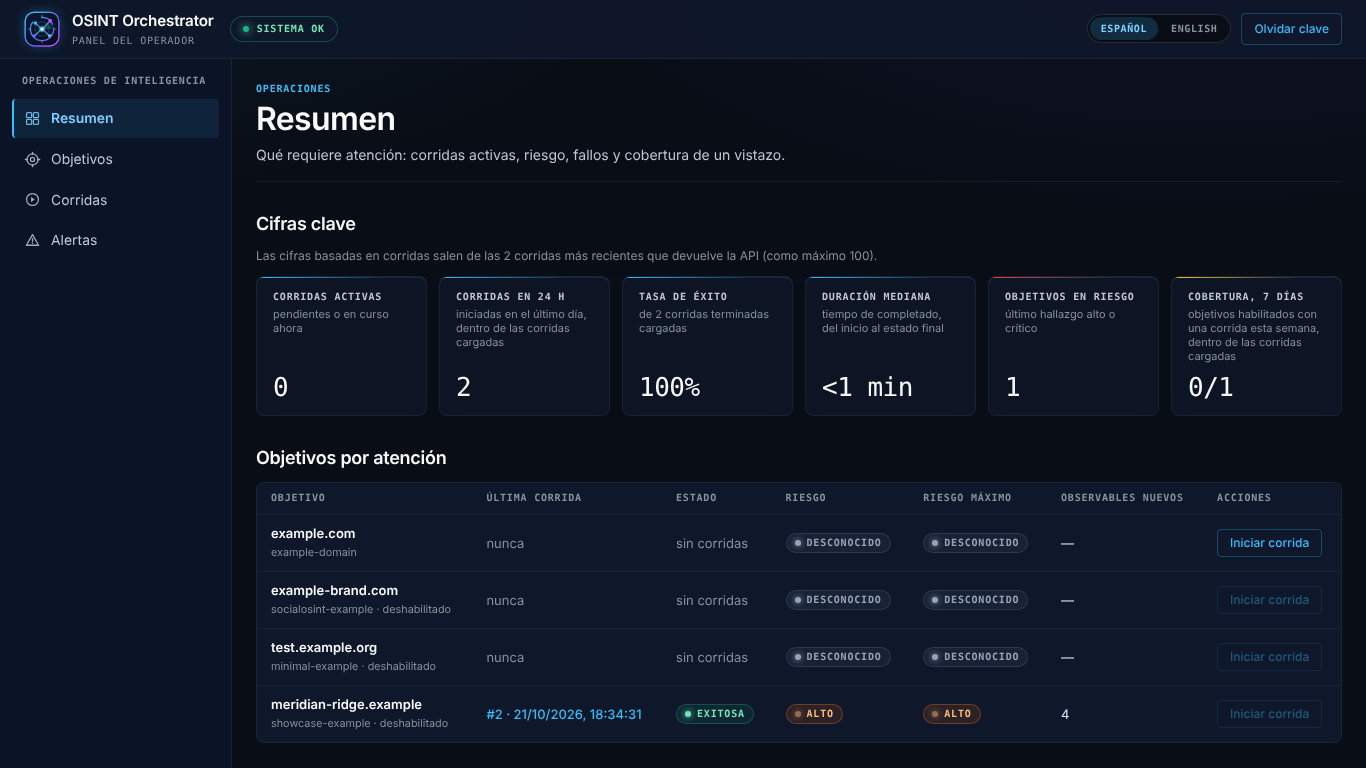
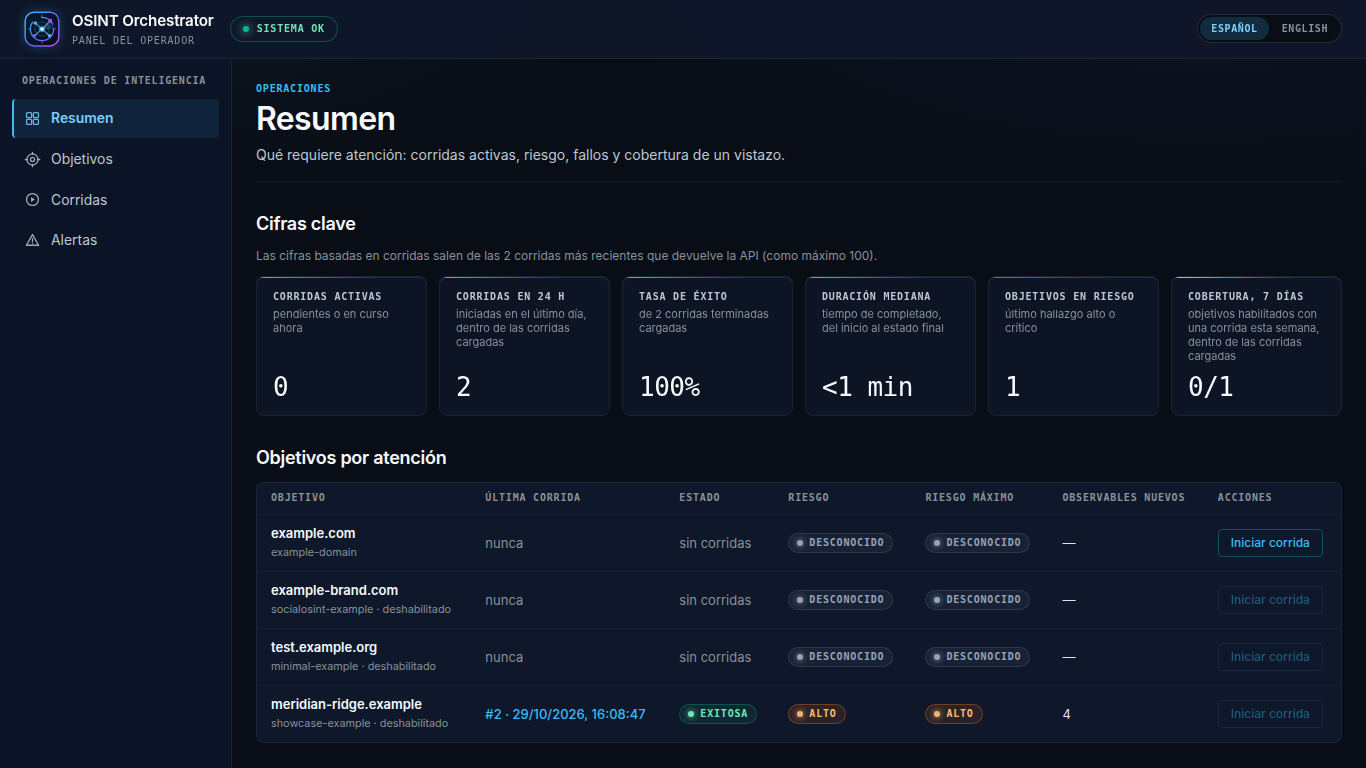
docs: refresh the diagrams, the screenshots and the documentation index (#172)
The pipeline diagram in both READMEs listed four collectors and the code
registers five: SocialOSINT was missing, so the first thing a reader sees
misdescribed the product. Both diagrams now name all five, and a table says
which run for every target and which are opt-in, which is the distinction a
compliance reader actually needs.

The four screenshots dated from before the dossiers and accounts pages
joined the console. They are re-rendered from the showcase replay at the
same 1366 px, one pair per language, and the run workspace one now shows the
qualified-evidence table the caption describes.

docs/README.md is the index the changelog has been announcing since the
documentation restructure in #31 without the file existing; it lists every
guide and ADR. The same changelog entry claimed a docs/business/
presentation that #31 deleted, so that claim goes.

diff --git a/README.es.md b/README.es.md
@@ -22,7 +22,7 @@ archivo se modificó después.
 
 ```mermaid
 flowchart LR
-    T[Objetivo<br/>cron o API] --> C[Recolectores<br/>Tavily · SpiderFoot · OpenOSINT · Amass]
+    T[Objetivo<br/>cron o API] --> C[Recolectores<br/>OpenOSINT · SpiderFoot<br/>Tavily · Amass · SocialOSINT]
     C --> Q[Calificación de evidencia<br/>Nemotron fast]
     Q --> N[STIX 2.1]
     N --> O[(OpenCTI)]
@@ -32,7 +32,9 @@ flowchart LR
 ```
 
 - **Recolectar.** Cada objetivo autorizado se investiga según un cron o a
-  demanda, con búsqueda web (Tavily) y recolectores de infraestructura.
+  demanda. OpenOSINT y SpiderFoot corren para todo objetivo; Tavily, Amass y
+  SocialOSINT se activan por objetivo, así que nada sale de su infraestructura
+  ni llega a un tercero salvo que el bloque de ese objetivo lo pida.
 - **Calificar.** Cada resultado web se clasifica respecto de la entidad:
   categoría (sanciones, litigios, prensa adversa…), relevancia, confianza y una
   justificación de una línea.
@@ -43,6 +45,17 @@ flowchart LR
 - **Sellar.** Los archivos de cada corrida se resumen en un manifiesto firmado
   con HMAC y encadenado a la corrida anterior, de modo que cualquier edición o
   borrado posterior se detecta.
+
+| Colector | Cómo corre | Activo por defecto | Qué aporta |
+| --- | --- | --- | --- |
+| OpenOSINT | búsqueda de pivotes en proceso, con presupuestos duros | todo objetivo | Dominios, URL y entidades alcanzadas desde la semilla |
+| SpiderFoot | en el stack base, por HTTP | todo objetivo | Hosts, certificados y exposiciones de sus módulos |
+| Tavily | API de búsqueda alojada, requiere `TAVILY_API_KEY` | opt-in por objetivo | Páginas de terceros como observables `url`, cada una calificada |
+| Amass | CLI sidecar, `--profile amass` | opt-in por objetivo | Subdominios y sus registros DNS |
+| SocialOSINT | REST sidecar, `--profile socialosint` | opt-in por objetivo | Un `user-account` por handle, más una nota de análisis sin verificar |
+
+Las claves por colector (`collectors.<nombre>.*`) están en
+[configuración](docs/configuration.md) (en inglés).
 
 Detalle: [arquitectura](docs/architecture.md) (en inglés).
 
@@ -187,8 +200,8 @@ activas, hallazgos, evidencia con búsqueda y filtros, y un botón para iniciar
 corridas; pide `ORCHESTRATOR_API_KEY` al abrirlo. Código en
 [`ui/`](ui/README.md) (en inglés); las imágenes lo construyen solas.
 
-Las dos capturas son la consola tras la corrida de muestra del nivel 1: la
-entidad ficticia, dos corridas, ninguna clave de API.
+Las dos capturas son la consola tras la repetición de la muestra (paso 1 del
+inicio rápido): la entidad ficticia, dos corridas, sin clave de API.
 
 ![Resumen: cifras clave y objetivos ordenados por atención; el objetivo de la muestra va último porque está desactivado](docs/img/dashboard-overview-es.png)
 

diff --git a/docs/README.md b/docs/README.md
@@ -1,0 +1,50 @@
+# Documentation
+
+Reference material for operators and maintainers. Everything here is in
+English ([ADR-009](adr/ADR-009-documentation-language.md)); the only Spanish
+translation is the top-level [README](../README.es.md).
+
+New to the project? Start with the [README](../README.md), then read
+[architecture](architecture.md).
+
+## Guides
+
+| Document | Read it when |
+| --- | --- |
+| [Architecture](architecture.md) | You need the pipeline, the module map or the reasons behind a design decision |
+| [Configuration](configuration.md) | You are filling `.env` or `targets.yaml` and want every key and its default |
+| [Operations](operations.md) | You run it: metrics, logs, alerts, retention, backups, troubleshooting |
+| [Deploy](deploy.md) | You are taking it to production, with Compose or the Helm chart |
+| [Compliance review workflow](compliance-workflow.md) | You use the professional identity, dossier and review features, or you are upgrading an automation-only install |
+| [Threat model](threat-model.md) | You are reviewing the security posture or assessing a change against it |
+
+## Decisions
+
+Architecture decisions live in [`adr/`](adr/) and are the record of why the
+system is shaped the way it is. Read the relevant one before proposing a change
+that contradicts it.
+
+| ADR | Decision |
+| --- | --- |
+| [001](adr/ADR-001-modular-monolith.md) | Modular monolith |
+| [002](adr/ADR-002-stix-as-contract.md) | STIX 2.1 as the internal data contract |
+| [003](adr/ADR-003-opencti-as-store.md) | OpenCTI as the single source of truth |
+| [004](adr/ADR-004-language-policy.md) | Spanish for operators, English for code |
+| [005](adr/ADR-005-api-auth-and-single-instance.md) | Static API keys, structured observability, single instance |
+| [006](adr/ADR-006-oidc-proxy.md) | Optional OIDC proxy as a perimeter layer |
+| [007](adr/ADR-007-evidence-chain.md) | Signed per-run evidence manifests, chained per target |
+| [008](adr/ADR-008-optional-opencti-sink.md) | Optional OpenCTI sink via `OPENCTI_ENABLED` |
+| [009](adr/ADR-009-documentation-language.md) | Documentation in English, README in English and Spanish |
+| [010](adr/ADR-010-operator-dashboard.md) | Operator dashboard as a React SPA served by the API |
+| [011](adr/ADR-011-external-stix-producers.md) | External STIX 2.1 producers as an intake path |
+| [012](adr/ADR-012-personal-compliance-workflow.md) | Personal identities and professional dossiers |
+
+## Other
+
+| Document | Content |
+| --- | --- |
+| [Hackathon history](HACKATHON.md) | Build log and per-PR record, in English and Spanish |
+| [`img/`](img/) | Dashboard screenshots used by both READMEs |
+
+Contributing rules, the language policy and the commands CI runs are in
+[CONTRIBUTING](../CONTRIBUTING.md) and [AGENTS](../AGENTS.md).

diff --git a/README.md b/README.md
@@ -22,7 +22,7 @@ whether the file was edited afterwards.
 
 ```mermaid
 flowchart LR
-    T[Target<br/>cron or API] --> C[Collectors<br/>Tavily · SpiderFoot · OpenOSINT · Amass]
+    T[Target<br/>cron or API] --> C[Collectors<br/>OpenOSINT · SpiderFoot<br/>Tavily · Amass · SocialOSINT]
     C --> Q[Evidence qualification<br/>Nemotron fast]
     Q --> N[STIX 2.1]
     N --> O[(OpenCTI)]
@@ -31,8 +31,10 @@ flowchart LR
     R --> A[Alerts]
 ```
 
-- **Collect.** Each authorised target is researched on a schedule or on demand
-  by web search (Tavily) and infrastructure collectors.
+- **Collect.** Each authorised target is researched on a schedule or on demand.
+  OpenOSINT and SpiderFoot run for every target; Tavily, Amass and SocialOSINT
+  are switched on per target, so nothing leaves your infrastructure or reaches
+  a third party unless that target's block asks for it.
 - **Qualify.** Every web result is classified against the entity: category
   (sanctions, litigation, adverse media…), relevance, confidence and a one-line
   rationale.
@@ -42,6 +44,17 @@ flowchart LR
   relies on, plus what is new since the previous run.
 - **Seal.** Each run's files are hashed into an HMAC-signed manifest chained to
   the previous run, so any later edit or removal is detectable.
+
+| Collector | Runs as | On by default | What it contributes |
+| --- | --- | --- | --- |
+| OpenOSINT | in-process pivot search with hard budgets | every target | Domains, URLs and entities reached from the seed |
+| SpiderFoot | in the base stack, over HTTP | every target | Hosts, certificates and exposures from its modules |
+| Tavily | hosted search API, needs `TAVILY_API_KEY` | opt-in per target | Third-party pages as `url` observables, each qualified |
+| Amass | sidecar CLI, `--profile amass` | opt-in per target | Subdomains and their DNS records |
+| SocialOSINT | sidecar REST, `--profile socialosint` | opt-in per target | One `user-account` per handle, plus an unverified analysis note |
+
+Per-collector keys (`collectors.<name>.*`) are in
+[configuration](docs/configuration.md).
 
 Details: [architecture](docs/architecture.md).
 
@@ -179,8 +192,8 @@ evidence with search and filters, and a Start-run action; it asks for
 `ORCHESTRATOR_API_KEY` on first load. Source in [`ui/`](ui/README.md); the
 images build it, so nothing else is needed.
 
-Both screenshots are the console after the showcase run of tier 1: the
-fictitious sample, two runs, no API key.
+Both screenshots are the console after the showcase replay (quickstart step 1):
+the fictitious sample, two runs, no API key.
 
 ![Overview: key figures and targets ordered by attention, the showcase target last because it is disabled](docs/img/dashboard-overview-en.png)
 

diff --git a/CHANGELOG.md b/CHANGELOG.md
@@ -334,15 +334,18 @@ from [SECURITY.md](SECURITY.md).
   bilingual README sections.
 - Optional OIDC front door: Keycloak + oauth2-proxy compose overlay
   (`--profile auth`), ADR-006, health-gated startup order.
-- Bilingual executive project presentation for management/AML audiences
-  (`docs/business/`), `CONTRIBUTING.md`, `SECURITY.md`, this changelog and a
-  documentation index (`docs/README.md`).
+- `CONTRIBUTING.md`, `SECURITY.md`, this changelog and a documentation index
+  (`docs/README.md`) linking every guide and ADR.
 
 ### Changed
 
 - README (both languages) shows the operator dashboard: the overview and the
-  run workspace with qualified evidence, rendered from the test fixtures at
-  1366 px in each language (`docs/img/`).
+  run workspace with qualified evidence, re-rendered from the showcase replay
+  at 1366 px in each language (`docs/img/`), after the dossiers and accounts
+  pages joined the console.
+- README (both languages) lists all five collectors in the pipeline diagram and
+  in a table that says which run by default and which are opt-in per target;
+  SocialOSINT was missing from both.
 - README (both languages) shows the four `.env` lines and the per-target
   `llm: nebius` that run every target on Token Factory with the two Nemotron
   routes; `.env.example` names the Nemotron models next to `LLM_MODEL_FAST`
